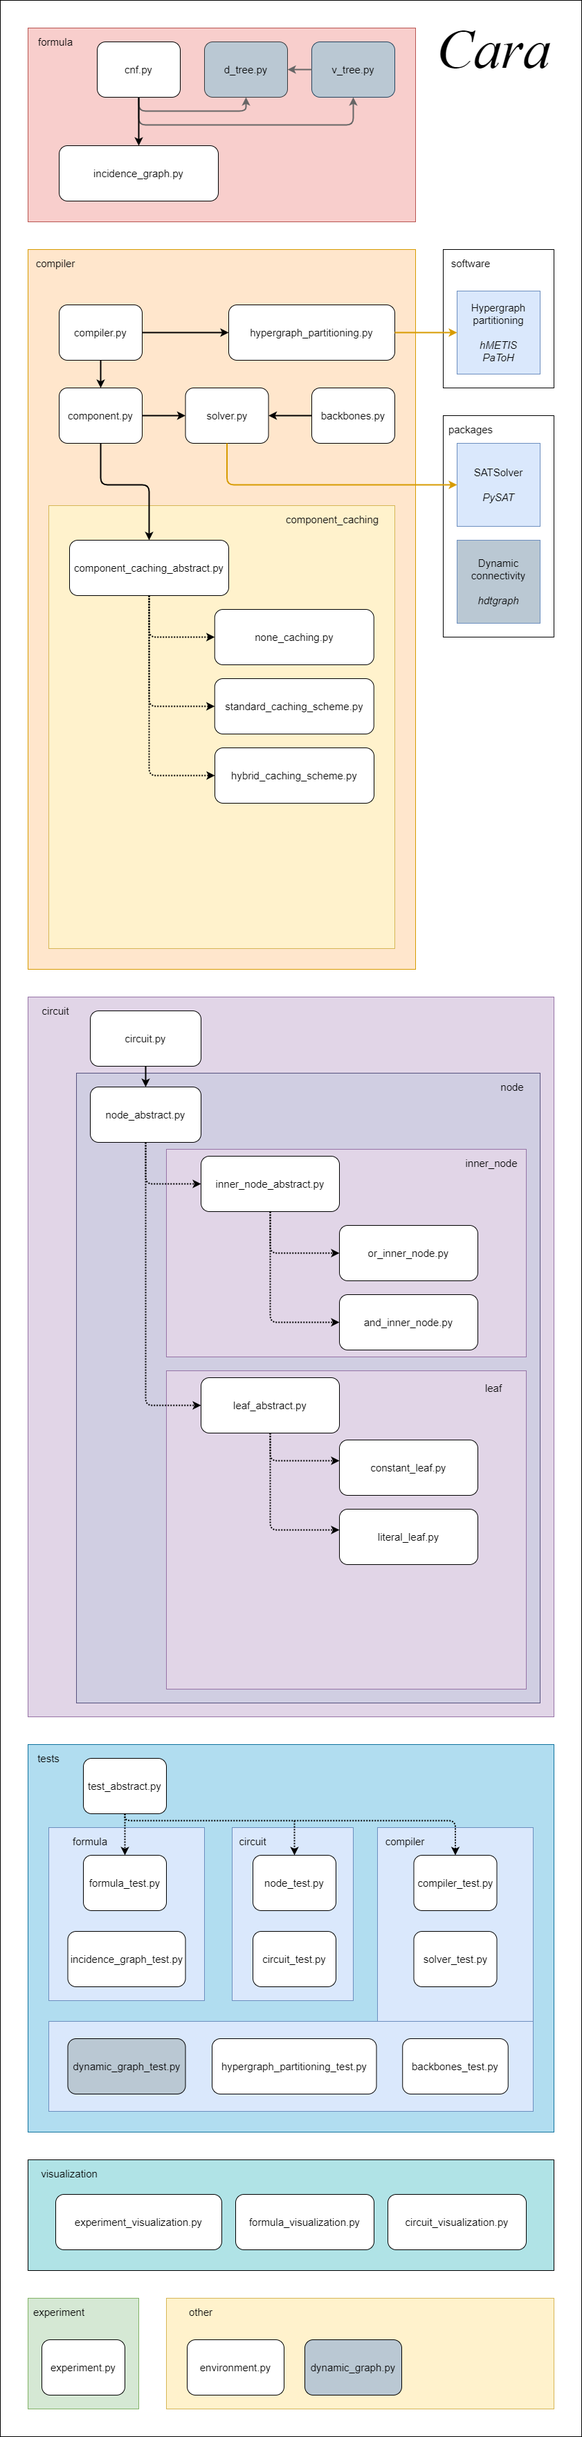
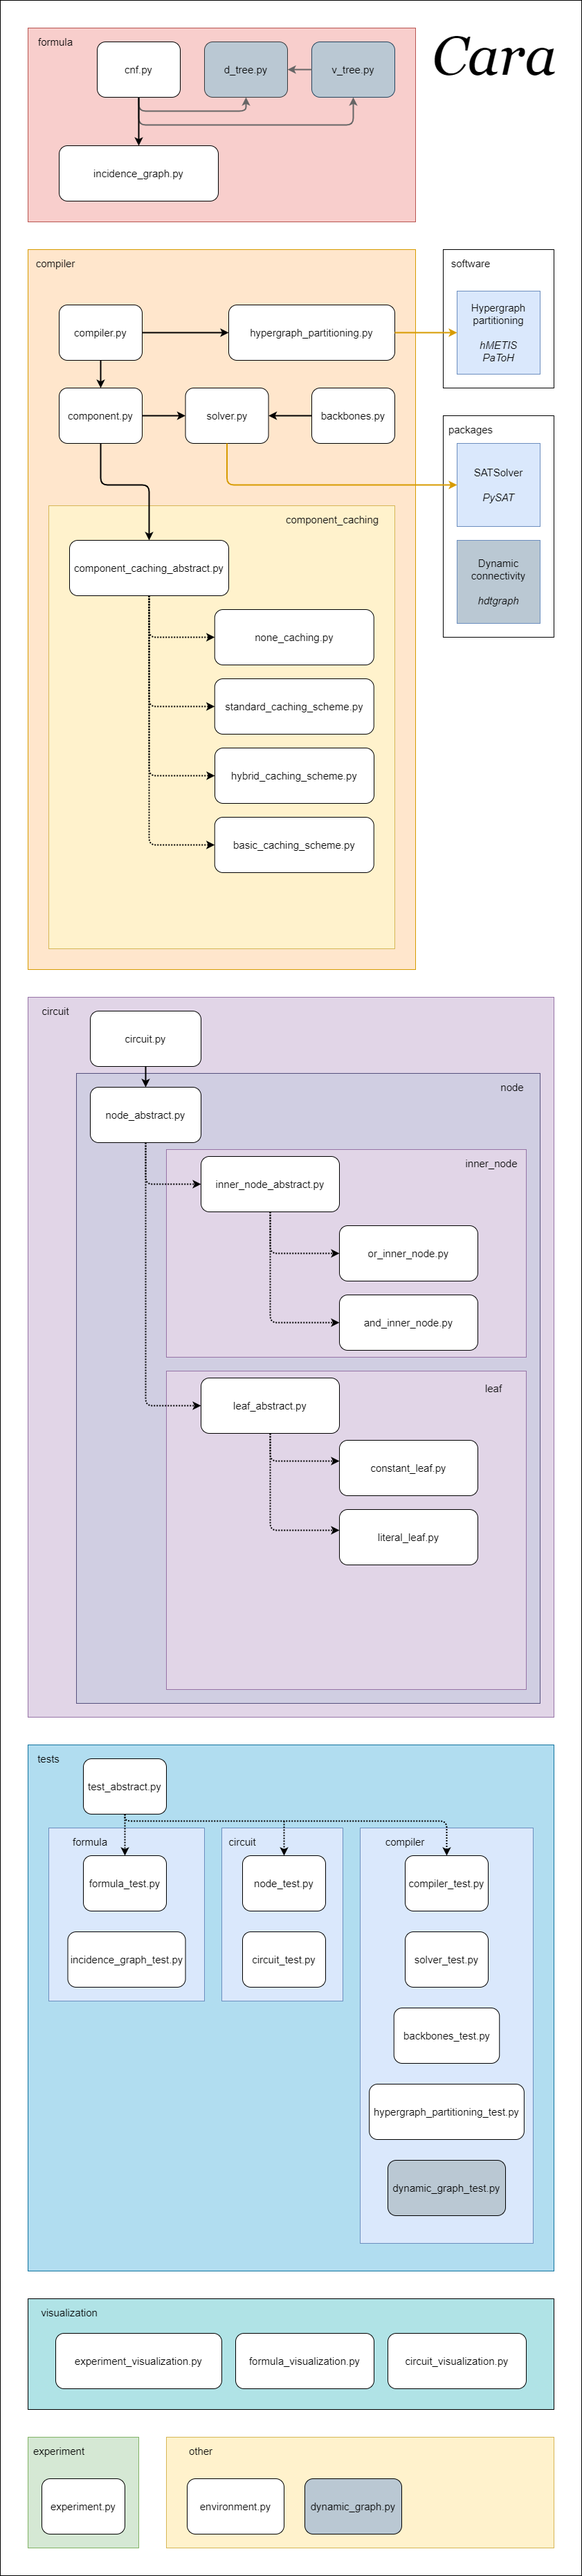
Component caching

diff --git a/test.py b/test.py
@@ -14,11 +14,11 @@ import compiler.enum.hypergraph_partitioning.hypergraph_partitioning_weight_type
 import compiler.enum.hypergraph_partitioning.hypergraph_partitioning_variable_simplification_enum as hpvs_enum
 
 # path = r"D:\Storage\OneDrive\Škola\Vysoká škola\UK\Diplomová práce\Program\Cara\tests\formula\cnf\CNF_formulae\no_comments_valid.cnf"
-path = r"D:\Storage\OneDrive\Škola\Vysoká škola\UK\SAT benchmarks\D4\Handmade\LatinSquare\qg2-08.cnf"
+# path = r"D:\Storage\OneDrive\Škola\Vysoká škola\UK\SAT benchmarks\D4\Handmade\LatinSquare\qg2-08.cnf"
 # path = r"D:\Storage\OneDrive\Škola\Vysoká škola\UK\Diplomová práce\Program\Cara\tests\formula\cnf\CNF_formulae\large_cnf_valid.cnf"
 
-# path = r"D:\Storage\OneDrive\Škola\Vysoká škola\UK\Diplomová práce\Program\Cara\tests\compiler\compiler\CNF_formulae\D1119_M20.cnf"
-
+# path = r"D:\Storage\OneDrive\Škola\Vysoká škola\UK\SAT benchmarks\D4\Planning\pddlXpSym\coins_p04_p_t5.cnf"
+path = r"D:\Storage\OneDrive\Škola\Vysoká škola\UK\SAT benchmarks\D4\qif\sum.32.cnf"
 start_time = time.time()
 
 cnf = Cnf(path)
@@ -26,14 +26,14 @@ cnf = Cnf(path)
 compiler = Compiler(cnf, smooth=False, ub_factor=0.1, new_cut_set_threshold=0.1, subsumed_threshold=1000,
                     sat_solver_enum=ss_enum.SatSolverEnum.MiniSAT,
                     implied_literals_enum=il_enum.ImpliedLiteralsEnum.BCP,
-                    component_caching_enum=cc_enum.ComponentCachingEnum.STANDARD_CACHING_SCHEME,
+                    component_caching_enum=cc_enum.ComponentCachingEnum.NONE,
                     hp_cache_enum=hpc_enum.HypergraphPartitioningCacheEnum.NONE,
                     hp_software_enum=hps_enum.HypergraphPartitioningSoftwareEnum.HMETIS,
                     hp_node_weight_type_enum=hpwt_enum.HypergraphPartitioningNodeWeightEnum.NONE,
                     hp_hyperedge_weight_type_enum=hpwt_enum.HypergraphPartitioningHyperedgeWeightEnum.NONE,
                     hp_variable_simplification_enum=hpvs_enum.HypergraphPartitioningVariableSimplificationEnum.EQUIV_SIMPL,
-                    hp_limit_number_of_clauses_cache=(None, 300),
-                    hp_limit_number_of_variables_cache=(None, 300))
+                    hp_limit_number_of_clauses_cache=(None, 200),
+                    hp_limit_number_of_variables_cache=(None, 200))
 
 circuit = compiler.create_circuit()
 
@@ -41,5 +41,6 @@ end_time = time.time()
 
 
 print("Time: ", end_time-start_time)
-# print(circuit)
+circuit.smooth()
+print(circuit.size)
 print("Number of models: ", circuit.model_counting(set(), set()))

diff --git a/formula/incidence_graph.py b/formula/incidence_graph.py
@@ -1,4 +1,5 @@
 # Import
+import mmh3
 import random
 import networkx as nx
 from networkx.classes.graph import Graph
@@ -277,12 +278,40 @@ class IncidenceGraph(Graph):
 
         return super().number_of_nodes()
 
-    def clause_id_set(self) -> Set[int]:
+    def clause_id_set(self, multi_occurrence: bool = True) -> Set[int]:
         """
+        :param multi_occurrence: should be multi-occurrent clauses kept
         :return: a set of clauses that are in the incidence graph
         """
 
-        return set(self.nodes[n]["value"] for n, d in self.nodes(data=True) if d["bipartite"] == 1)
+        clause_id_set = set(self.nodes[n]["value"] for n, d in self.nodes(data=True) if d["bipartite"] == 1)
+
+        if multi_occurrence:
+            return clause_id_set
+
+        # Multi-occurrent clauses are not kept
+        cache: Dict[int, int] = dict()
+        clause_id_set_without_multi_occurrence = set()
+
+        for clause_id in clause_id_set:
+            clause_key_string = ",".join(map(str, sorted(self.get_clause(clause_id))))
+            clause_key = mmh3.hash(clause_key_string)
+
+            if clause_key not in cache:
+                cache[clause_key] = clause_id
+                clause_id_set_without_multi_occurrence.add(clause_id)
+            else:
+                value = cache[clause_key]
+
+                # determinism
+                if value < clause_id:
+                    continue
+
+                clause_id_set_without_multi_occurrence.remove(value)
+                clause_id_set_without_multi_occurrence.add(clause_id)
+                cache[clause_key] = clause_id
+
+        return clause_id_set_without_multi_occurrence
 
     def clause_id_list(self) -> List[int]:
         """

diff --git a/compiler/component_caching/basic_caching_scheme.py b/compiler/component_caching/basic_caching_scheme.py
@@ -5,9 +5,9 @@ from formula.incidence_graph import IncidenceGraph
 from compiler.component_caching.component_caching_abstract import ComponentCachingAbstract
 
 
-class StandardCachingScheme(ComponentCachingAbstract):
+class BasicCachingScheme(ComponentCachingAbstract):
     """
-    Standard caching scheme (s)
+    Basic caching scheme (b)
     """
 
     def __init__(self):
@@ -15,13 +15,15 @@ class StandardCachingScheme(ComponentCachingAbstract):
 
     # region Override method
     def generate_key_cache(self, incidence_graph: IncidenceGraph) -> Union[int, None]:
+        variable_sorted_list = sorted(incidence_graph.variable_set())
         clause_list = []
 
-        for clause_id in sorted(incidence_graph.clause_id_set(multi_occurrence=False)):
+        for clause_id in incidence_graph.clause_id_set(multi_occurrence=False):
             literal_set = incidence_graph.get_clause(clause_id)
             clause_list.append(sorted(literal_set))
 
-        key_string = self._end_delimiter.join([self._delimiter.join(map(str, clause)) for clause in clause_list])
+        key_string = self._end_delimiter_2.join((self._delimiter.join(map(str, variable_sorted_list)),
+                                                 self._end_delimiter.join([self._delimiter.join(map(str, clause)) for clause in sorted(clause_list)])))
         key = mmh3.hash(key_string)
 
         return key

diff --git a/compiler/compiler.py b/compiler/compiler.py
@@ -8,6 +8,8 @@ from compiler.hypergraph_partitioning import HypergraphPartitioning
 
 # Import component caching
 from compiler.component_caching.none_caching import NoneCaching
+from compiler.component_caching.basic_caching_scheme import BasicCachingScheme
+from compiler.component_caching.hybrid_caching_scheme import HybridCachingScheme
 from compiler.component_caching.standard_caching_scheme import StandardCachingScheme
 
 # Import exception
@@ -92,6 +94,16 @@ class Compiler:
         # STANDARD_CACHING_SCHEME
         if component_caching_enum == cc_enum.ComponentCachingEnum.STANDARD_CACHING_SCHEME:
             self.__component_caching = StandardCachingScheme()
+            return
+
+        # HYBRID_CACHING_SCHEME
+        if component_caching_enum == cc_enum.ComponentCachingEnum.HYBRID_CACHING_SCHEME:
+            self.__component_caching = HybridCachingScheme()
+            return
+
+        # BASIC_CACHING_SCHEME
+        if component_caching_enum == cc_enum.ComponentCachingEnum.BASIC_CACHING_SCHEME:
+            self.__component_caching = BasicCachingScheme()
             return
 
         raise c_exception.FunctionNotImplementedException("set_component_caching",

diff --git a/compiler/hypergraph_partitioning.py b/compiler/hypergraph_partitioning.py
@@ -486,12 +486,12 @@ class HypergraphPartitioning:
                 counter_temp += 1
 
         variable_clause_list = []
-        for clause_id in incidence_graph.clause_id_set():
+        for clause_id in incidence_graph.clause_id_set(multi_occurrence=False):
             variable_set = incidence_graph.clause_id_neighbour_set(clause_id)
-            variable_ordered_list = sorted(map(lambda v: variable_id_order_id_dictionary[v], variable_set))
-            variable_clause_list.append(variable_ordered_list)
+            variable_sorted_list = sorted(map(lambda v: variable_id_order_id_dictionary[v], variable_set))
+            variable_clause_list.append(variable_sorted_list)
 
-        key_string = ",0,".join([",".join(map(str, variable_clause)) for variable_clause in variable_clause_list])
+        key_string = ",0,".join([",".join(map(str, variable_clause)) for variable_clause in sorted(variable_clause_list)])
         key = mmh3.hash(key_string)
 
         return key, (variable_id_order_id_dictionary, order_id_variable_id_dictionary)

diff --git a/tests/compiler/compiler/compiler_test.py b/tests/compiler/compiler/compiler_test.py
@@ -54,7 +54,7 @@ class CompilerTest(TestAbstract):
                                                         new_cut_set_threshold=new_cut_set_threshold,
                                                         sat_solver_enum=ss_enum.SatSolverEnum.MiniSAT,
                                                         implied_literals_enum=implied_literals_enum,
-                                                        component_caching_enum=cc_enum.ComponentCachingEnum.STANDARD_CACHING_SCHEME,
+                                                        component_caching_enum=cc_enum.ComponentCachingEnum.HYBRID_CACHING_SCHEME,
                                                         hp_cache_enum=hp_cache_enum,
                                                         hp_software_enum=hps_enum.HypergraphPartitioningSoftwareEnum.HMETIS,
                                                         hp_node_weight_type_enum=hpwt_enum.HypergraphPartitioningNodeWeightEnum.NONE,

diff --git a/compiler/component_caching/hybrid_caching_scheme.py b/compiler/component_caching/hybrid_caching_scheme.py
@@ -1,0 +1,26 @@
+# Import
+import mmh3
+from typing import Union
+from formula.incidence_graph import IncidenceGraph
+from compiler.component_caching.component_caching_abstract import ComponentCachingAbstract
+
+
+class HybridCachingScheme(ComponentCachingAbstract):
+    """
+    Hybrid caching scheme (h)
+    """
+
+    def __init__(self):
+        super().__init__()
+
+    # region Override method
+    def generate_key_cache(self, incidence_graph: IncidenceGraph) -> Union[int, None]:
+        variable_sorted_list = sorted(incidence_graph.variable_set())
+        clause_id_sorted_list = sorted(incidence_graph.clause_id_set(multi_occurrence=False))
+
+        key_string = self._end_delimiter.join((self._delimiter.join(map(str, variable_sorted_list)),
+                                               self._delimiter.join(map(lambda c: str(c + 1), clause_id_sorted_list))))
+        key = mmh3.hash(key_string)
+
+        return key
+    # endregion

diff --git a/compiler/component_caching/component_caching_abstract.py b/compiler/component_caching/component_caching_abstract.py
@@ -14,11 +14,19 @@ class ComponentCachingAbstract(ABC):
     """
 
     """
-    Private Dict<int, int> cache
+    Private Dict<int, int> cache    key: hash, value: identifier of a node
+    
+    Protected str delimiter
+    Protected str end_delimiter
+    Protected str end_delimiter_2
     """
 
     def __init__(self):
         self.__cache: Dict[int, int] = dict()
+
+        self._delimiter = ","
+        self._end_delimiter = f"{self._delimiter}0{self._delimiter}"
+        self._end_delimiter_2 = f"{self._delimiter}00{self._delimiter}"
 
     # region Abstract method
     @abstractmethod

diff --git a/compiler/component_caching/component_caching_enum.py b/compiler/component_caching/component_caching_enum.py
@@ -7,7 +7,7 @@ class ComponentCachingEnum(IntEnum):
     NONE = 1
     STANDARD_CACHING_SCHEME = 2     # Cachet
     HYBRID_CACHING_SCHEME = 3       # sharpSAT
-    D4 = 4                          # D4
+    BASIC_CACHING_SCHEME = 4
 
 
 component_caching_enum_names = [cc.name for cc in ComponentCachingEnum]
